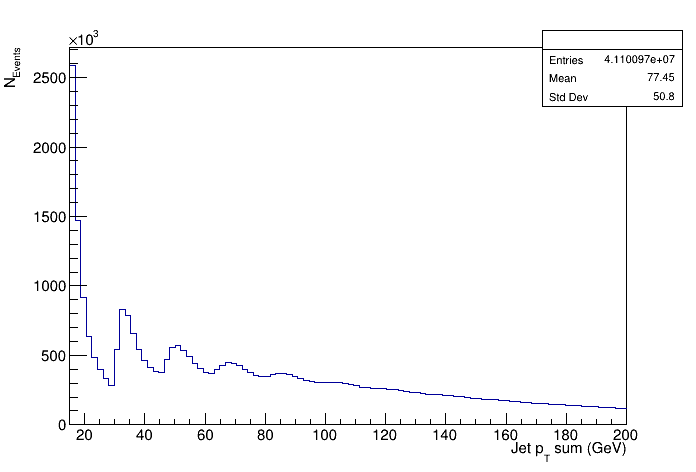
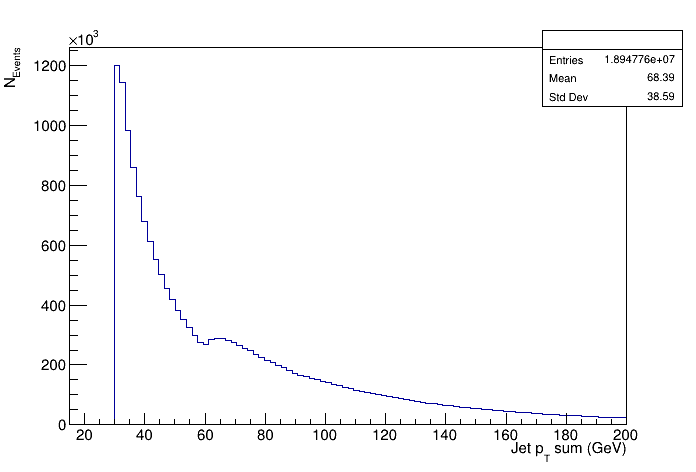
update task 7
- add cut on jet pt
- use events with && of the cuts on pt > 30, no isolated muon and no isolated electron
- update reference plot

Fixes #3

diff --git a/tasks/7/rdataframe_jitted.C b/tasks/7/rdataframe_jitted.C
@@ -1,23 +1,24 @@
 template <typename T> using Vec = const ROOT::RVec<T>&;
 
-ROOT::RVec<int> good_jets(Vec<float> eta1, Vec<float> phi1, Vec<float> pt2, Vec<float> eta2, Vec<float> phi2)
+ROOT::RVec<int> find_isolated_jets(Vec<float> eta1, Vec<float> phi1, Vec<float> pt2, Vec<float> eta2, Vec<float> phi2)
 {
     ROOT::RVec<int> mask(eta1.size(), 1);
     if (eta2.size() == 0) {
         return mask;
     }
 
-    const auto eta3 = eta2[pt2 > 10];
-    const auto phi3 = phi2[pt2 > 10];
-    if (eta3.size() == 0) {
+    const auto ptcut = pt2 > 10;
+    const auto eta2_ptcut = eta2[ptcut];
+    const auto phi2_ptcut = phi2[ptcut];
+    if (eta2_ptcut.size() == 0) {
         return mask;
     }
 
-    const auto c = ROOT::VecOps::Combinations(eta1, eta3);
+    const auto c = ROOT::VecOps::Combinations(eta1, eta2_ptcut);
     for (auto i = 0; i < c[0].size(); i++) {
         const auto i1 = c[0][i];
         const auto i2 = c[1][i];
-        const auto dr = ROOT::VecOps::DeltaR(eta1[i1], phi1[i1], eta2[i2], phi2[i2]);
+        const auto dr = ROOT::VecOps::DeltaR(eta1[i1], eta2_ptcut[i2], phi1[i1], phi2_ptcut[i2]);
         if (dr < 0.4) mask[i1] = 0;
     }
     return mask;
@@ -28,9 +29,10 @@ void rdataframe_jitted() {
     ROOT::EnableImplicitMT();
     ROOT::RDataFrame df("Events", "root://eospublic.cern.ch//eos/root-eos/benchmark/Run2012B_SingleMu.root");
     auto h = df.Filter("nJet > 0", "At least one jet")
-               .Define("goodJet_antiMuon", good_jets, {"Jet_eta", "Jet_phi", "Muon_pt", "Muon_eta", "Muon_phi"})
-               .Define("goodJet_antiElectron", good_jets, {"Jet_eta", "Jet_phi", "Electron_pt", "Electron_eta", "Electron_phi"})
-               .Define("goodJet", "goodJet_antiMuon || goodJet_antiElectron")
+               .Define("goodJet_ptcut", "Jet_pt > 30")
+               .Define("goodJet_antiMuon", find_isolated_jets, {"Jet_eta", "Jet_phi", "Muon_pt", "Muon_eta", "Muon_phi"})
+               .Define("goodJet_antiElectron", find_isolated_jets, {"Jet_eta", "Jet_phi", "Electron_pt", "Electron_eta", "Electron_phi"})
+               .Define("goodJet", "goodJet_ptcut && goodJet_antiMuon && goodJet_antiElectron")
                .Filter("Sum(goodJet) > 0")
                .Define("goodJet_sumPt", "Sum(Jet_pt[goodJet])")
                .Histo1D({"", ";Jet p_{T} sum (GeV);N_{Events}", 100, 15, 200}, "goodJet_sumPt");
